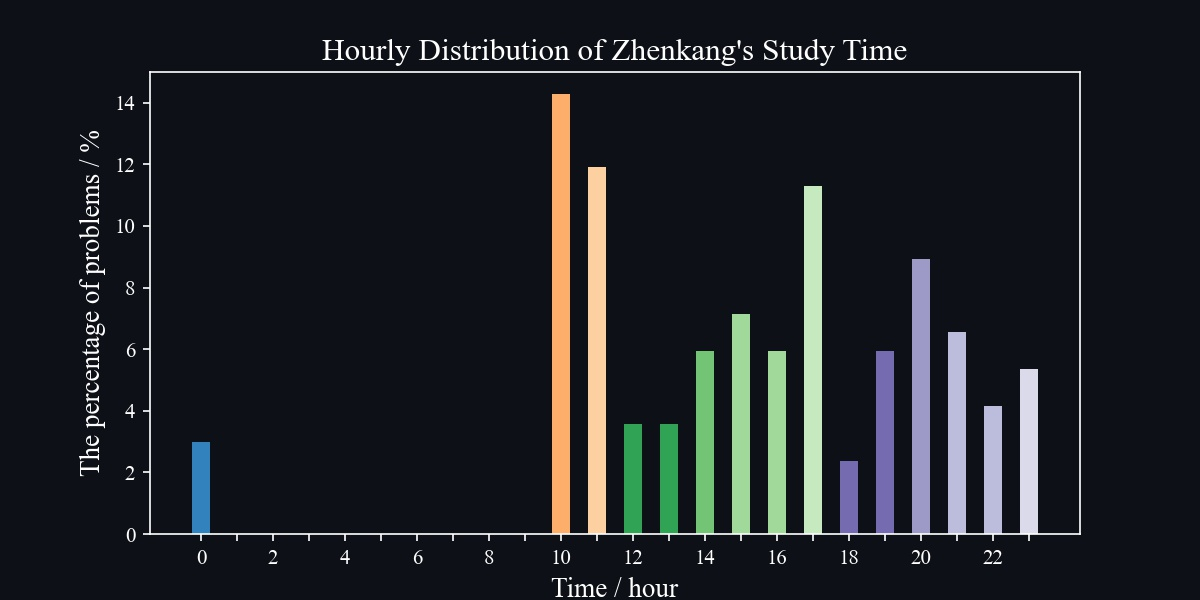
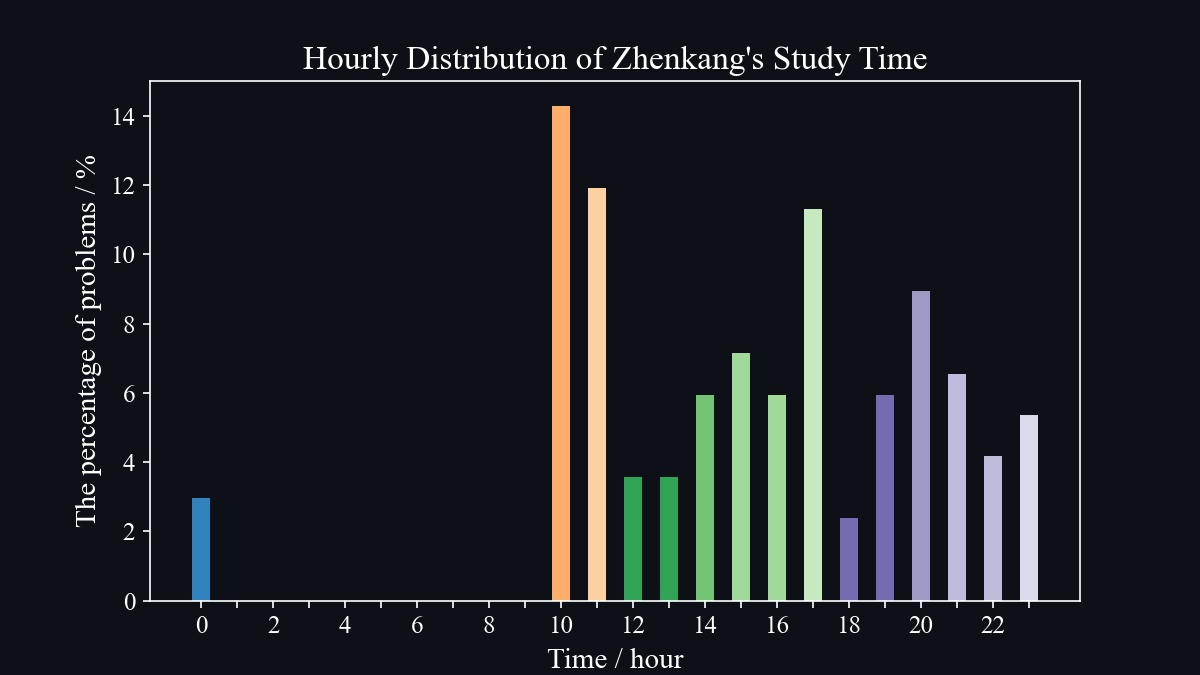
new figure

diff --git a/myFunction.py b/myFunction.py
@@ -89,17 +89,19 @@ class myFunction:
         items = os.listdir(fileFolder)
         # 每日提交时间统计
         hourslist = [0] * 24
+        dayslist = [0] * 365
         # 年份/月份统计 （当前共涉及2年）
         yearsDict = {}
         yearsDict[2020] = [0]*12
         yearsDict[2021] = [0] * 12
+        
         
         for name in items:
             if name[:9] == 'Solution_':
                 # 获取文件时间
                 unixTime = os.path.getmtime(fileFolder+name)
                 localTime = time.localtime(unixTime)
-                # print(localTime)
+                # 统计小时分布
                 # 直接tm_hour 这样统计出来的是0-60分，而画图却是以整点画图
                 # 所以应该是+-30统计
                 # hourslist[localTime.tm_hour] +=1
@@ -107,24 +109,37 @@ class myFunction:
                     hourslist[(localTime.tm_hour + 1) %24] +=1
                 else:
                     hourslist[localTime.tm_hour] +=1
+                
+                # 统计每日刷题数
+                day_num = 364 - (int(time.mktime(time.localtime())) - int(time.mktime(localTime))) // (24 * 60 * 60)
+                if day_num >= 364 or day_num <= 0:
+                    # print(day_num)
+                    pass
+                else:
+                    dayslist[day_num] += 1
+                # 统计年月份刷题数
                 yearsDict[localTime.tm_year][localTime.tm_mon-1] += 1
 
-        return hourslist,yearsDict
+        return hourslist,yearsDict,dayslist
                 
 
 if __name__ == '__main__':
     myfunc = myFunction()
     # Statistics
-    # hourslist, yearsDict = myfunc.statistics('./code/')
+    hourslist, yearsDict,dayslist = myfunc.statistics('./code/')
     # hourslist = [4, 0, 0, 0, 0, 0, 0, 0, 0, 3, 22, 10, 5, 8, 10, 11, 7, 16, 1, 13, 16, 4, 2, 4]
     # yearsDict = {2020: [0, 0, 0, 0, 0, 0, 0, 0, 0, 0, 0, 18], 2021: [0, 0, 0, 0, 0, 0, 0, 12, 68, 38, 0, 0]}
-    hourslist = [5, 0, 0, 0, 0, 0, 0, 0, 0, 0, 24, 20, 6, 6, 10, 12, 10, 19, 4, 10, 15, 11, 7, 9]
-    yearsDict = {2020: [0, 0, 0, 0, 0, 0, 0, 0, 0, 0, 0, 18], 2021: [0, 0, 0, 0, 0, 0, 0, 12, 68, 70, 0, 0]}
+    # hourslist = [5, 0, 0, 0, 0, 0, 0, 0, 0, 0, 24, 20, 6, 6, 10, 12, 10, 19, 4, 10, 15, 11, 7, 9]
+    # yearsDict = {2020: [0, 0, 0, 0, 0, 0, 0, 0, 0, 0, 0, 18], 2021: [0, 0, 0, 0, 0, 0, 0, 12, 68, 70, 0, 0]}
     totalProblems = sum(hourslist)
+     # 设置字号
+    fontSize = 12
+    myDPI = 150
+    figSize = (8, 4.5)
     
     plt.style.use('dark_background')
     githubColor = [13/255,17/255,23/255] # 匹配github色彩
-    fig_hours, ax = plt.subplots(figsize=(8, 4),facecolor=githubColor) # ,facecolor='black'
+    fig_hours, ax = plt.subplots(figsize=figSize,facecolor=githubColor) # ,facecolor='black'
     hours = [str(i) for i in range(24)]
     hourslist_percent = [ i / totalProblems * 100  for i in hourslist]
     hourscmap = plt.cm.get_cmap('tab20c')
@@ -135,19 +150,17 @@ if __name__ == '__main__':
         label.set_visible(False)
     
     
-    # 设置字号
-    fontSize = 10
-    myDPI = 150
+   
     plt.xticks(size=fontSize)
     plt.yticks(size=fontSize)
-    plt.xlabel('Time / hour',fontsize=fontSize+3)
-    plt.ylabel('The percentage of problems / %',fontsize=fontSize+3)
-    plt.title("Hourly Distribution of Zhenkang's Study Time", fontsize=fontSize+5) # 设置标题
+    plt.xlabel('Time / hour',fontsize=fontSize+2)
+    plt.ylabel('The percentage of problems / %',fontsize=fontSize+2)
+    plt.title("Hourly Distribution of Zhenkang's Study Time", fontsize=fontSize+4) # 设置标题
     plt.savefig('.//image//HourlyDistribution.jpg', dpi=myDPI,facecolor=githubColor)
     
     # plt.xticks(fontsize = 30)
     
-    fig_months, ax = plt.subplots(figsize=(8, 4),facecolor=githubColor)
+    fig_months, ax = plt.subplots(figsize=figSize,facecolor=githubColor)
     months = [calendar.month_abbr[i] for i in range(1,13)]
     monthscmap = plt.cm.get_cmap('tab20c')
     totalProblems2021 = sum(yearsDict[2021])
@@ -164,12 +177,28 @@ if __name__ == '__main__':
     # fontSize = 15
     plt.xticks(size=fontSize)
     plt.yticks(size=fontSize)
-    plt.xlabel('Time / month',fontsize=fontSize+3)
-    plt.ylabel('The percentage of problems / %',fontsize=fontSize+3)
-    plt.title("Monthly Distribution of Zhenkang's Study Time", fontsize=fontSize+5) # 设置标题
+    plt.xlabel('Time / month',fontsize=fontSize+2)
+    plt.ylabel('The percentage of problems / %',fontsize=fontSize+2)
+    plt.title("Monthly Distribution of Zhenkang's Study Time in 2021", fontsize=fontSize+4) # 设置标题
     plt.savefig('.//image//MonthlyDistribution.jpg', dpi=myDPI,facecolor=githubColor)
     # plt.xticks(fontsize = 30)
     
+    fig_days, ax = plt.subplots(figsize = figSize,facecolor=githubColor)
+    daysumlist = [0]
+    for i in range(1,len(dayslist)):
+        daysumlist.append(daysumlist[i-1]+dayslist[i])
+    # print(daysumlist)
+    ax.plot(daysumlist)
+    ax.set_facecolor(githubColor)
+    fig_months.set_facecolor(githubColor)
+    
+    plt.xticks(size=fontSize)
+    plt.yticks(size=fontSize)
+    plt.xlabel('Time / day',fontsize=fontSize+2)
+    plt.ylabel('The number of problems',fontsize=fontSize+2)
+    plt.title("The Cumulative Curve of Zhenkang's Daily Problems", fontsize=fontSize+4) # 设置标题
+    plt.savefig('.//image//DailyDistribution.jpg', dpi=myDPI,facecolor=githubColor)
+
     
     # Name2MarkdownList
     # strlist = myfunc.Name2MarkdownList('E:\\Python_Projects\\LeetCode\\')
